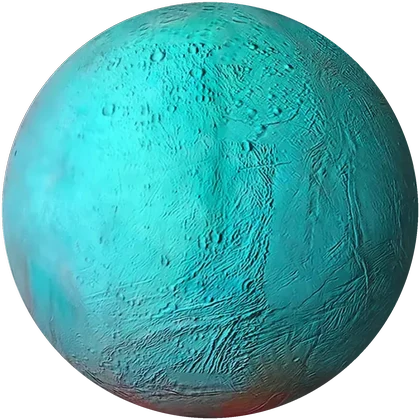
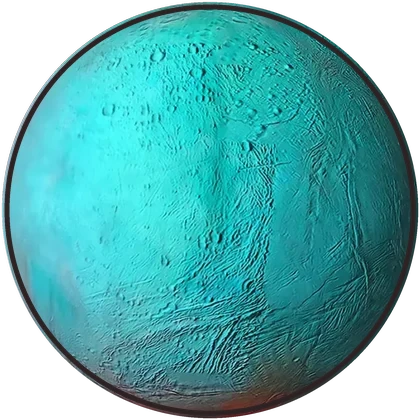
星球立绘统一黑色描边
Claude-Session: https://claude.ai/code/session_01JDiALkpbsdjX6YMkLW4X8m

diff --git a/js/ui/game.js b/js/ui/game.js
@@ -1263,8 +1263,8 @@
     { id: 'jingchu', name: '荆楚号', d: '环绕地球运行的星际探索舰，轮廓和湖北省一模一样。', sites: ['board', 'xiaogan', 'academy', 'storage'], ship: true, after: 'jiuquan' },
     { id: 'station', name: '空间站', d: '停泊在荆楚号后方的空间站，先驱之塔就建在这里。', sites: [], station: true, after: 'flora1' },
     { id: 'tower', name: '先驱之塔', d: '空间站里的一座高塔，共 60 层。每一层都守着一批强大的精灵，塔顶住着死神。', sites: [], tower: true, after: 'flora1', inStation: true },
-    { id: 'flora', name: '芙罗拉星', d: '草系星球。丛林、草甸和盐碱地里栖息着许多野生精灵。', sites: ['flora1', 'flora2', 'flora3', 'flora4', 'flora5', 'flora6', 'travelcat'], wild: true, ptype: '草系星球', color: ['#9fd08a', '#3f7d4a'], get img() { return floraFallen() ? 'images/planets/flora_corrupt.webp?v=2' : 'images/planets/flora.webp?v=2'; }, after: 'board' },
-    { id: 'kamble', name: '坎伯兰星', d: '水系星球。整颗星球都被海洋覆盖，从水面一直往下，是浅水区和深不见底的深海区。', sites: [], wild: true, ptype: '水系星球', color: ['#8cc6ea', '#2a6fb0'], get img() { return 'images/planets/kamble_' + kbStage() + '.webp'; }, after: 'flora1' },
+    { id: 'flora', name: '芙罗拉星', d: '草系星球。丛林、草甸和盐碱地里栖息着许多野生精灵。', sites: ['flora1', 'flora2', 'flora3', 'flora4', 'flora5', 'flora6', 'travelcat'], wild: true, ptype: '草系星球', color: ['#9fd08a', '#3f7d4a'], get img() { return floraFallen() ? 'images/planets/flora_corrupt.webp?v=3' : 'images/planets/flora.webp?v=3'; }, after: 'board' },
+    { id: 'kamble', name: '坎伯兰星', d: '水系星球。整颗星球都被海洋覆盖，从水面一直往下，是浅水区和深不见底的深海区。', sites: [], wild: true, ptype: '水系星球', color: ['#8cc6ea', '#2a6fb0'], get img() { return 'images/planets/kamble_' + kbStage() + '.webp?v=2'; }, after: 'flora1' },
     { id: 'pompeii', name: '庞贝星', d: '火系星球。火山终年喷发，地面被熔岩烤得发烫。', sites: [], wild: true, ptype: '火系星球', color: ['#f2a46b', '#b3401f'], img: 'images/planets/pompeii.webp', after: 'flora1' },
     { id: 'laiting', name: '莱汀陨石带', d: '电系区域。无数陨石在雷暴中漂浮。', sites: [], wild: true, ptype: '电系陨石带', color: ['#f1dd73', '#7a6a1a'], belt: true, after: 'flora1' },
     { id: 'white', name: '白之星', d: '冰系星球。离太阳最远，整颗星球都裹在冰雪里。', sites: [], wild: true, ptype: '冰系星球', color: ['#e4f2fa', '#6aa6c8'], after: 'flora1' },
@@ -5035,7 +5035,7 @@
     if ($('fallen-dlg')) return;
     var d = document.createElement('div'); d.className = 'soc-dlg'; d.id = 'fallen-dlg';
     d.innerHTML = '<div class="soc-box fallen-box" role="dialog" aria-modal="true" aria-label="芙罗拉星"><span class="step">芙罗拉星</span><h2>腐化</h2>' +
-      '<div class="fallen-planet" aria-hidden="true"><img class="fp-a" src="images/planets/flora.webp?v=2" alt=""><img class="fp-b" src="images/planets/flora_corrupt.webp?v=2" alt=""><i class="fp-fog"></i></div>' +
+      '<div class="fallen-planet" aria-hidden="true"><img class="fp-a" src="images/planets/flora.webp?v=3" alt=""><img class="fp-b" src="images/planets/flora_corrupt.webp?v=3" alt=""><i class="fp-fog"></i></div>' +
       '<p>现在，芙罗拉星和星球上的绝大多数精灵，已经被瘴气腐化了。</p>' +
       '<p>尽力驱散这些诅咒吧……如果有用的话。</p>' +
       '<p class="hint">芙罗拉星的野外遇到的精灵都变成了腐化精灵，无法捕捉。击败它们，同样计入星球任务「祛除瘴气」。</p>' +

diff --git a/js/data/changelog.js b/js/data/changelog.js
@@ -12,7 +12,7 @@ var CHANGELOG = [
     '坎伯兰星有了自己的星球立绘',
     '星系图上新增空岩星和常春藤前哨站（敬请期待），白之星挪到了离太阳最远的位置',
     '各星球页面的「捕捉」一栏改名为「探索」',
-    '坎伯兰星的古代神殿有了专属音乐；马亚尔星系的星图换成手绘画风',
+    '坎伯兰星的古代神殿有了专属音乐；马亚尔星系的星图换成手绘画风；芙罗拉星、坎伯兰星的星球立绘加上和庞贝星一样的黑色描边',
     '温泉里的精灵会在水面上左右漂，往哪边漂就面朝哪边；精灵分在左右两边、站在主角前面，不会被挡住，主角也调小了一些',
     '拿到精灵翻译器之后，在野外、温泉、茶室里走动的精灵偶尔会冒出气泡说话',
     '新增玛西西、玛西露姆、风尾使者、六尾风王的图鉴介绍',
